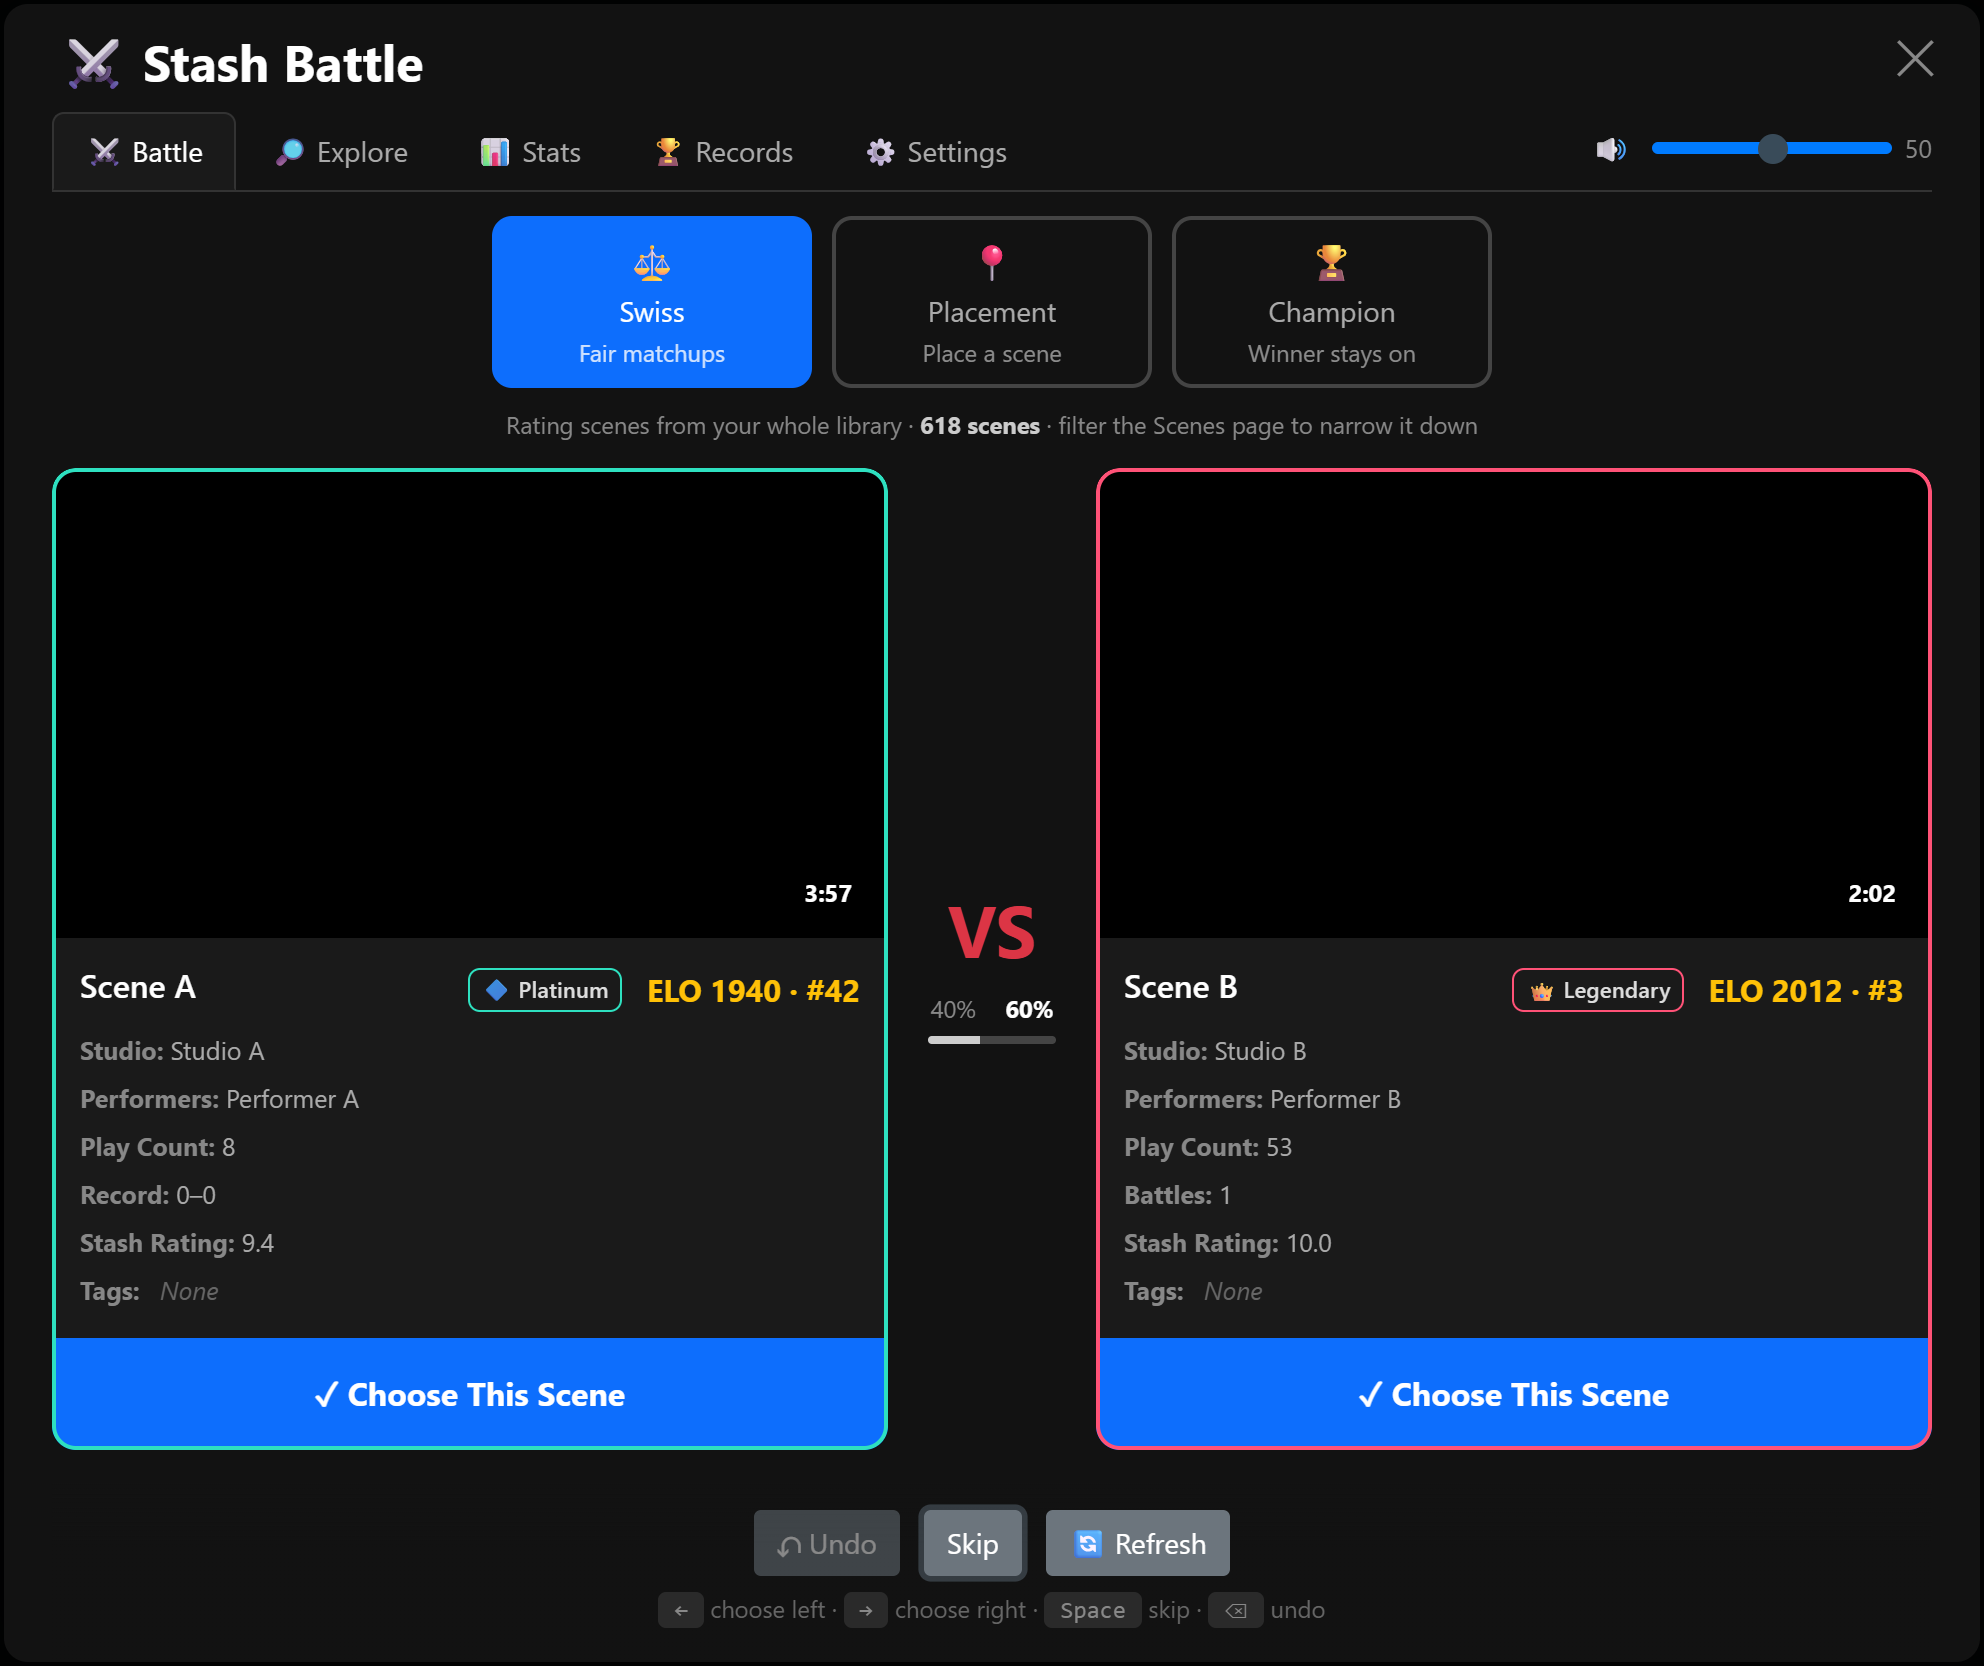
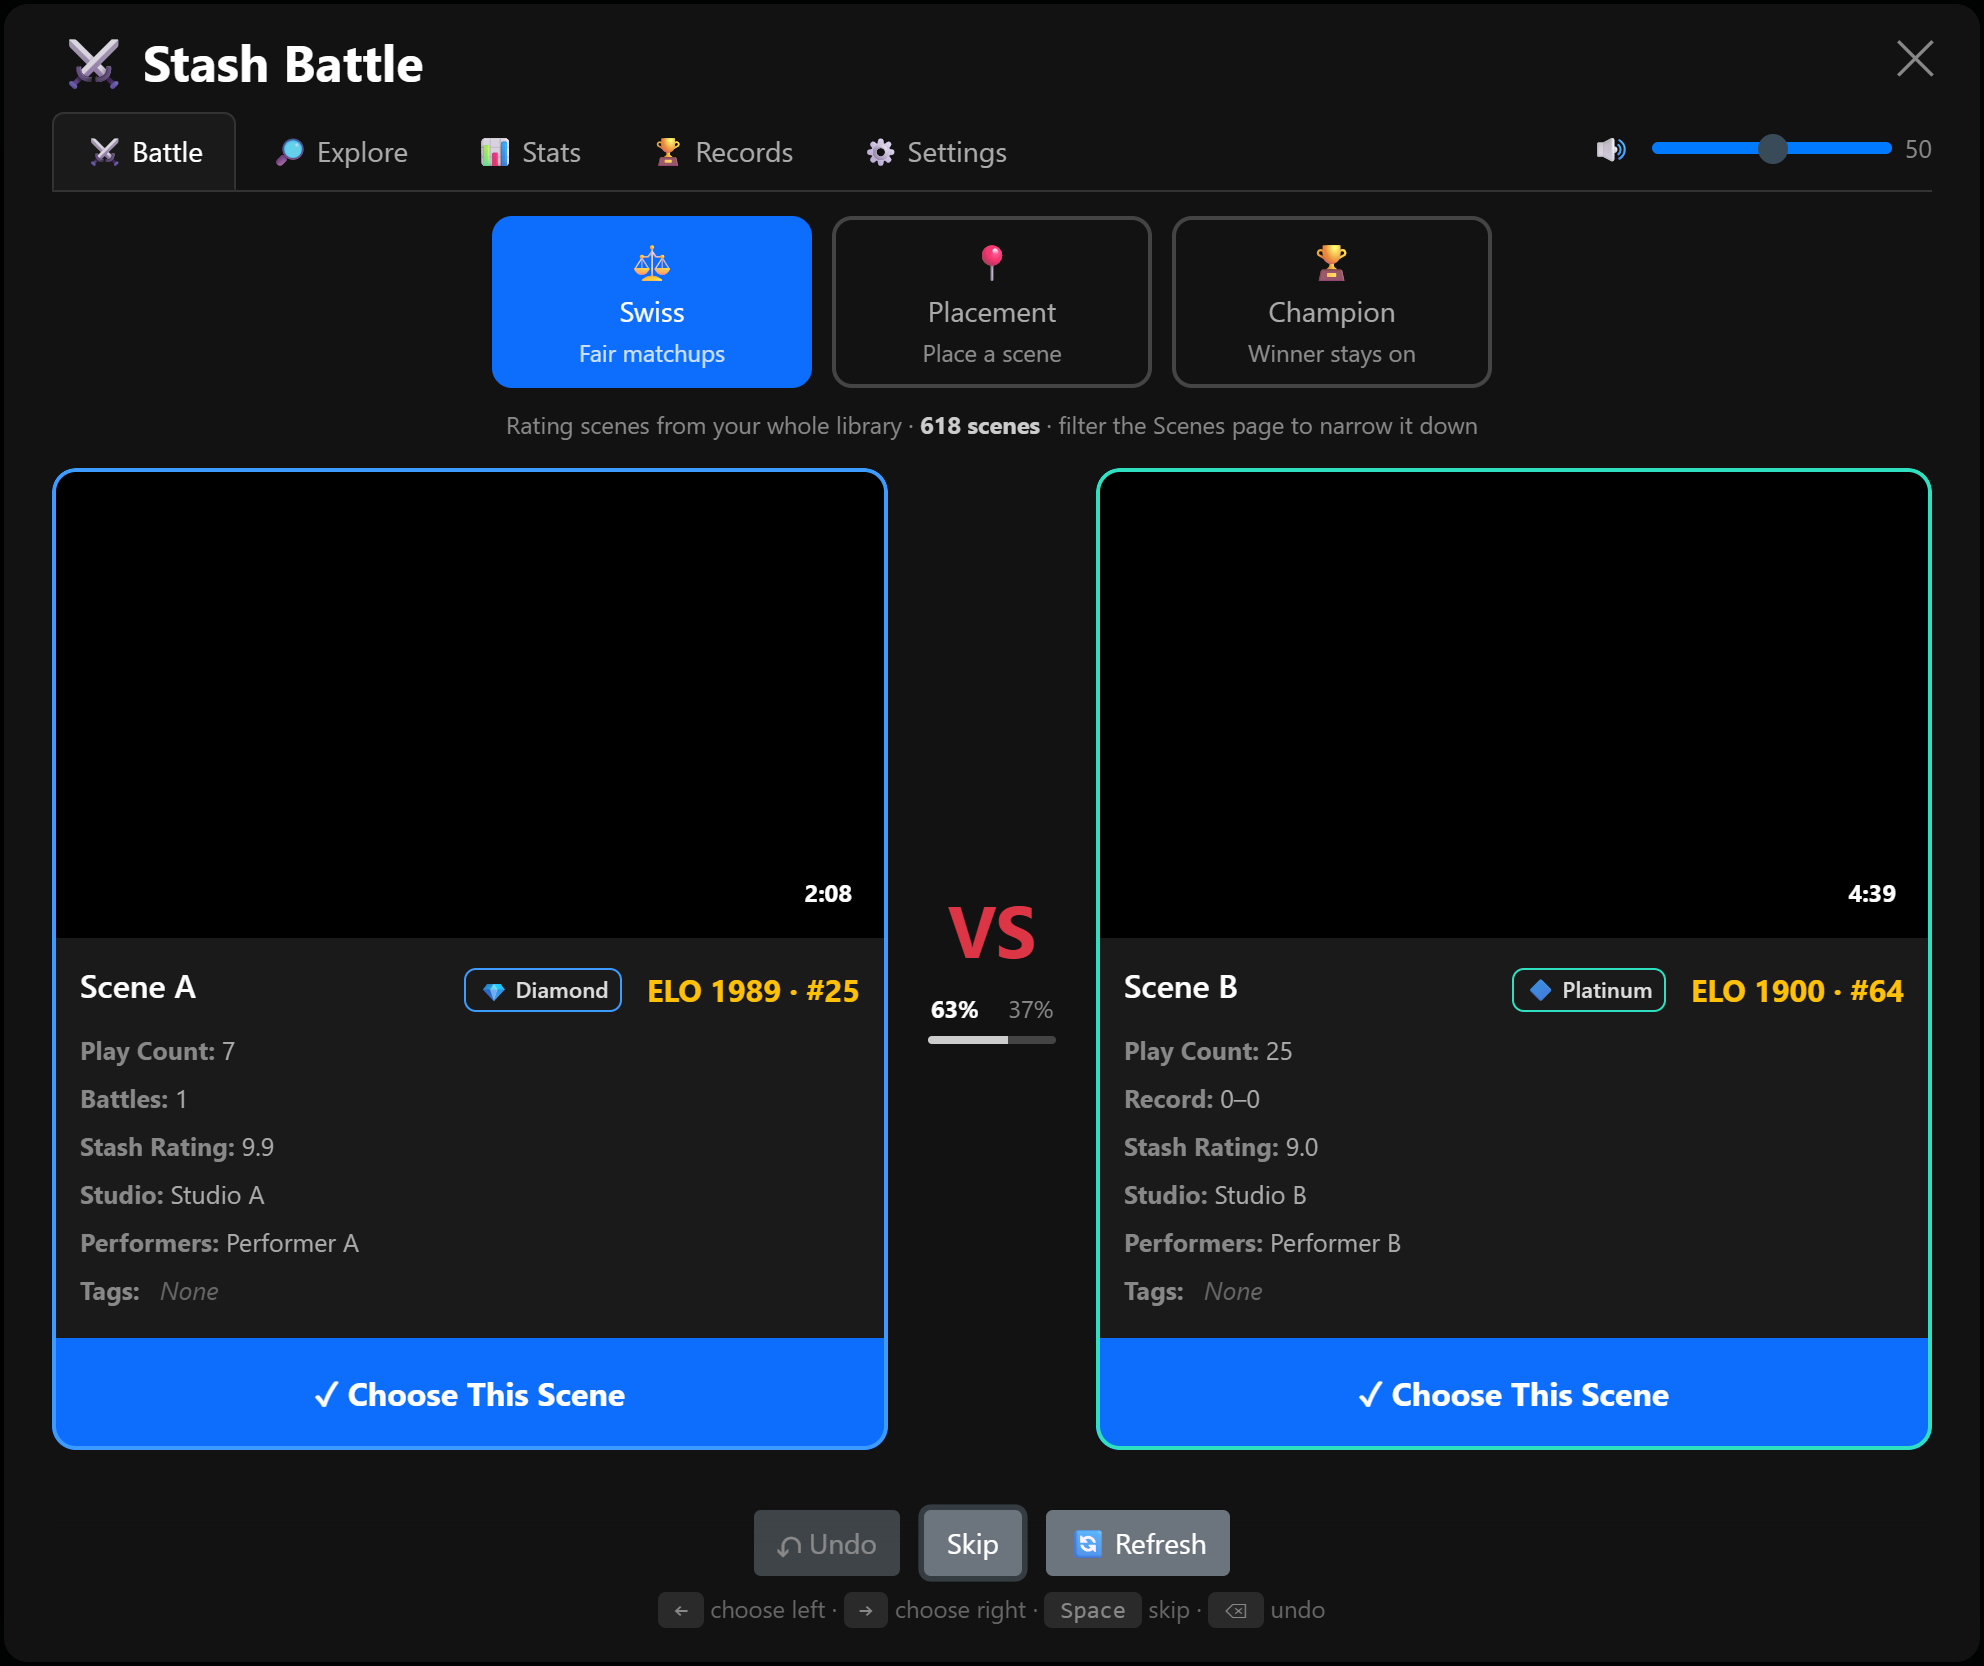
Cards lead with play count, record and rating; end-screen Undo; shorter Stats notes.
Battle cards list Play Count, Record and Stash Rating before Studio,
Performers and Tags (phones keep performers on the left of their one
line). The end screens' Undo reads "↶ Undo" like the action bar's and
sits under Start New Run. Stats drops "Battles break ties up" and the
least-tested "They go on the left first..." sentence.

diff --git a/plugins/stash-battle/stash-battle.js b/plugins/stash-battle/stash-battle.js
@@ -2290,11 +2290,11 @@
             </div>
 
             <div class="sb-scene-meta">
-              <div class="sb-meta-item sb-meta-studio"><strong>Studio:</strong> ${studio}</div>
-              <div class="sb-meta-item sb-meta-performers"><strong>Performers:</strong> ${performers}</div>
               <div class="sb-meta-item sb-meta-plays"><strong>Play Count:</strong> ${scene.play_count || 0}</div>
               <div class="sb-meta-item sb-meta-battles">${record !== null ? `<strong>Record:</strong> ${record}` : `<strong>Battles:</strong> ${battles(scene)}`}</div>
               <div class="sb-meta-item sb-meta-rating"><strong>Stash Rating:</strong> ${stashRating}<span class="sb-meta-record-inline"> · ${record !== null ? `<strong>Record:</strong> ${record}` : `${battles(scene)} battle${battles(scene) === 1 ? "" : "s"}`}</span></div>
+              <div class="sb-meta-item sb-meta-studio"><strong>Studio:</strong> ${studio}</div>
+              <div class="sb-meta-item sb-meta-performers"><strong>Performers:</strong> ${performers}</div>
               <div class="sb-meta-item sb-tags-row"><strong>Tags:</strong> ${tags.length > 0 ? tags.map((tag) => `<span class="sb-tag">${tag}</span>`).join("") : '<span class="sb-none">None</span>'}</div>
             </div>
           </div>
@@ -2320,7 +2320,9 @@
         </div>
         <h3 class="sb-end-screen-name">${title}</h3>
         <p class="sb-end-screen-stats">${statsHtml}</p>
-        <button id="sb-new-run" class="btn btn-primary">${buttonLabel}</button>
+        <div class="sb-end-actions">
+          <button id="sb-new-run" class="btn btn-primary">${buttonLabel}</button>
+        </div>
       </div>
     `;
   }
@@ -2334,7 +2336,7 @@
     });
     const newRun = comparisonArea.querySelector("#sb-new-run");
     if (newRun && canUndo()) {
-      newRun.insertAdjacentHTML("afterend", ` <button id="sb-end-undo" class="btn btn-secondary">↶ Undo last pick</button>`);
+      newRun.insertAdjacentHTML("afterend", `<button id="sb-end-undo" class="btn btn-secondary" title="Undo your last pick (Backspace)">↶ Undo</button>`);
       comparisonArea.querySelector("#sb-end-undo")?.addEventListener("click", () => void undoLastPick());
     }
   }
@@ -3190,7 +3192,7 @@
     const notes = [];
     const tie = largestTie(scenes);
     if (tie && tie.count >= TIE_NOTE_MIN) {
-      notes.push(`${tie.count} scenes are still tied at ELO ${Math.round(tie.elo)}. Battles break ties up.`);
+      notes.push(`${tie.count} scenes are still tied at ELO ${Math.round(tie.elo)}.`);
     }
     if (state.settings.stashRatings === "off") {
       notes.push("Stash ratings aren't being updated, so there's no rating scale under the chart.");
@@ -3254,8 +3256,7 @@
     if (!pool) return "";
     const rated = pool.count - pool.unrated;
     const who = pool.battles === 0 ? `${plural(pool.count, "scene")} have no battles yet: ${rated} with an ELO (the “No battles yet” bar) and ${pool.unrated} unrated.` : `The fewest battles any scene has is ${pool.battles}, and ${plural(pool.count, "scene")} have that many.`;
-    const where = leastTestedFiltered ? " (from your Scenes page filter)" : "";
-    return `${who}${where} They go on the left first, in Swiss, until you stop it.`;
+    return leastTestedFiltered ? `${who} From your Scenes page filter.` : who;
   }
   function settledHtml() {
     const buckets = settledBuckets(scenes);

diff --git a/src/ui/sceneCard.ts b/src/ui/sceneCard.ts
@@ -114,11 +114,11 @@ export function createSceneCard(
             </div>
 
             <div class="sb-scene-meta">
-              <div class="sb-meta-item sb-meta-studio"><strong>Studio:</strong> ${studio}</div>
-              <div class="sb-meta-item sb-meta-performers"><strong>Performers:</strong> ${performers}</div>
               <div class="sb-meta-item sb-meta-plays"><strong>Play Count:</strong> ${scene.play_count || 0}</div>
               <div class="sb-meta-item sb-meta-battles">${record !== null ? `<strong>Record:</strong> ${record}` : `<strong>Battles:</strong> ${battles(scene)}`}</div>
               <div class="sb-meta-item sb-meta-rating"><strong>Stash Rating:</strong> ${stashRating}<span class="sb-meta-record-inline"> · ${record !== null ? `<strong>Record:</strong> ${record}` : `${battles(scene)} battle${battles(scene) === 1 ? "" : "s"}`}</span></div>
+              <div class="sb-meta-item sb-meta-studio"><strong>Studio:</strong> ${studio}</div>
+              <div class="sb-meta-item sb-meta-performers"><strong>Performers:</strong> ${performers}</div>
               <div class="sb-meta-item sb-tags-row"><strong>Tags:</strong> ${tags.length > 0 ? tags.map((tag) => `<span class="sb-tag">${tag}</span>`).join("") : '<span class="sb-none">None</span>'}</div>
             </div>
           </div>

diff --git a/src/ui/statsTab.ts b/src/ui/statsTab.ts
@@ -182,7 +182,7 @@ function distributionNote(): string {
   const notes: string[] = [];
   const tie = largestTie(scenes);
   if (tie && tie.count >= TIE_NOTE_MIN) {
-    notes.push(`${tie.count} scenes are still tied at ELO ${Math.round(tie.elo)}. Battles break ties up.`);
+    notes.push(`${tie.count} scenes are still tied at ELO ${Math.round(tie.elo)}.`);
   }
   if (state.settings.stashRatings === "off") {
     notes.push("Stash ratings aren't being updated, so there's no rating scale under the chart.");
@@ -271,8 +271,7 @@ function leastTestedText(): string {
     pool.battles === 0
       ? `${plural(pool.count, "scene")} have no battles yet: ${rated} with an ELO (the “No battles yet” bar) and ${pool.unrated} unrated.`
       : `The fewest battles any scene has is ${pool.battles}, and ${plural(pool.count, "scene")} have that many.`;
-  const where = leastTestedFiltered ? " (from your Scenes page filter)" : "";
-  return `${who}${where} They go on the left first, in Swiss, until you stop it.`;
+  return leastTestedFiltered ? `${who} From your Scenes page filter.` : who;
 }
 
 function settledHtml(): string {

diff --git a/src/ui/screens.ts b/src/ui/screens.ts
@@ -32,7 +32,9 @@ function buildEndScreenHtml(
         </div>
         <h3 class="sb-end-screen-name">${title}</h3>
         <p class="sb-end-screen-stats">${statsHtml}</p>
-        <button id="sb-new-run" class="btn btn-primary">${buttonLabel}</button>
+        <div class="sb-end-actions">
+          <button id="sb-new-run" class="btn btn-primary">${buttonLabel}</button>
+        </div>
       </div>
     `;
 }
@@ -51,7 +53,7 @@ function showEndScreen(html: string): void {
   // The pick that ended the run can be taken back from here too (the Undo bar is hidden)
   const newRun = comparisonArea.querySelector("#sb-new-run");
   if (newRun && canUndo()) {
-    newRun.insertAdjacentHTML("afterend", ` <button id="sb-end-undo" class="btn btn-secondary">↶ Undo last pick</button>`);
+    newRun.insertAdjacentHTML("afterend", `<button id="sb-end-undo" class="btn btn-secondary" title="Undo your last pick (Backspace)">↶ Undo</button>`);
     comparisonArea.querySelector("#sb-end-undo")?.addEventListener("click", () => void undoLastPick());
   }
 }

diff --git a/plugins/stash-battle/stash-battle.css b/plugins/stash-battle/stash-battle.css
@@ -1884,6 +1884,14 @@ body.sb-battle-open > .modal {
   font-size: 1.1rem;
 }
 
+/* Start New Run, and Undo under it when the pick that ended the run can be taken back */
+.sb-end-actions {
+  display: flex;
+  flex-direction: column;
+  align-items: center;
+  gap: 12px;
+}
+
 /* ---------- Short screens (laptops): compact header and meta ---------- */
 @media (max-height: 900px) and (min-width: 641px) {
   .sb-container {
@@ -2170,6 +2178,11 @@ body.sb-battle-open > .modal {
   .sb-meta-performers {
     flex: 1;
     min-width: 0;
+  }
+
+  /* One line: performers on the left, then the rating and record (they come first elsewhere) */
+  .sb-meta-rating {
+    order: 1;
   }
 
   .sb-meta-performers strong,

diff --git a/DOCUMENTATION.md b/DOCUMENTATION.md
@@ -90,7 +90,7 @@ Helpers in `state.ts`: `resetRunState()` clears Champion **and** Placement run f
 | `eloSetup.ts` | One-time ELO setup: `fetchSetupScenes`, `setupRatingChanges`, `runEloSetup` |
 | `sceneActions.ts` | `findExistingSceneIds`, `isSceneNotFoundError` (deleted-scene detection) |
 | `ui/sceneCard.ts` | `createSceneCard`, `tierPill`, `formatDuration` |
-| `ui/screens.ts` | `showVictoryScreen`, `showPlacementScreen` (both with "↶ Undo last pick") |
+| `ui/screens.ts` | `showVictoryScreen`, `showPlacementScreen` (both with "↶ Undo") |
 | `ui/exploreTab.ts` | The 🔎 Explore tab: `createExploreTab`, `renderExploreTab`, `setExploreFilters` (Stats opens it at an ELO range) |
 | `ui/statsTab.ts` | The 📊 Stats tab: `createStatsTab`, `renderStatsTab`; the charts are hand-drawn SVG |
 | `ui/recordsTab.ts` | The 🏆 Records tab: `createRecordsTab`, `renderRecordsTab` |
@@ -472,7 +472,7 @@ After each Swiss / Champion pick, an overlay counts the **ELO** change in whole 
 - **Victory** (Champion, or a "Start from the bottom" climb that never lost): crown, "CHAMPION!", "Reached the top: N wins in a row!", final ELO
 - **Placement**: pin, "PLACED!", streak (bottom runs), rank, battles, final ELO
 - With a Stash ratings update mode on, the ELO line also shows `Stash Rating: N`: the scene's target from `stashRatingTargets` over the all-scenes cache (the cache already has the new ELO), so it's what the sync writes, even if that write is still on its way
-- Both show "Start New Run" (`#sb-new-run`), which resets run state, and "↶ Undo last pick" (`#sb-end-undo`) while the pick that ended the run can be undone
+- Both show "Start New Run" (`#sb-new-run`), which resets run state, and "↶ Undo" (`#sb-end-undo`, styled like the action bar's, under it in `.sb-end-actions`) while the pick that ended the run can be undone
 - No glow. They use the cards' entry animation (`fadeIn`, 0.3s); while an end screen shows, the battle area has `overflow: clip` (`.sb-comparison-area:has(> .sb-end-screen)`), because the end screen sits flush with the window's bottom (the action bar is hidden) and the slide-in would otherwise make the content 20px taller for a moment and flash a scrollbar.
 
 ### Keyboard Shortcuts
@@ -543,7 +543,7 @@ The click handler is bound once per panel (`dataset.bound`), not on every render
 
 ## Undo Last Pick
 
-**↶ Undo** in the action bar (and Backspace) takes back the last pick; end screens show "↶ Undo last pick" instead, since the action bar is hidden there. One level.
+**↶ Undo** in the action bar (and Backspace) takes back the last pick; end screens show their own "↶ Undo" next to Start New Run, since the action bar is hidden there. One level.
 
 - `handleSceneChoice` takes a `PickSnapshot` before the pick: the mode, the pair and its ranks, the ELO fields of every scene the pick writes (both in Swiss and Champion; Placement's scene, which is written when it lands), Champion's run (scene, wins, defeated), a copy of the Placement run, and the hall of fame's ids.
 - `undoLastPick` cancels the next-pair timer (`scheduleNextPair`) and bumps `pairLoads`, so a pair load already under way stops before showing anything (each `loadNewPair` checks it's still the newest after every await). It waits for writes still on their way (`eloWritesSettled`), then `restoreElo` writes each scene's fields back exactly: a scene that had no record loses the record fields its pick created, and one that was unrated loses its ELO again. Nothing is written when the fields already match.
